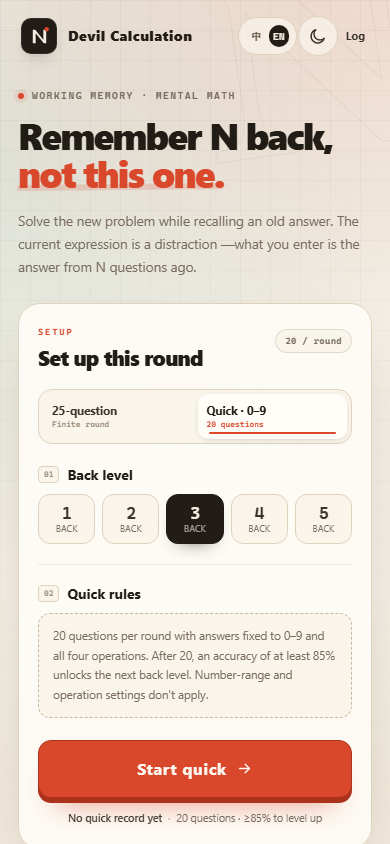
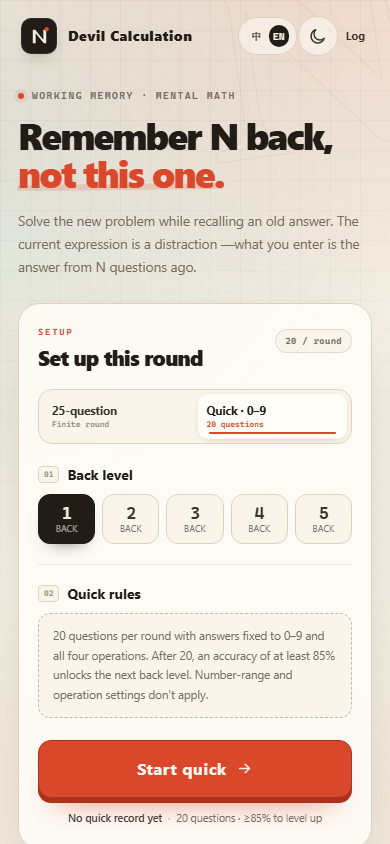
Make home layout adapt to viewport height and width
Center the home content between header and footer, pin the footer to the bottom, and expand spacing and type on wide screens. Tested at 2560x1229 with no extra scroll.

Changed region(s): [[0.4, 0.5853, 0.5846, 0.6777], [0.0923, 0.5853, 0.2462, 0.6777]]

diff --git a/dev/styles.css b/dev/styles.css
@@ -3956,3 +3956,66 @@ html[data-theme] .guide-panel .example {
 #screen-game[data-mode="endless"] .progress-block {
   display: block !important;
 }
+
+/* Home should fill the viewport height and use wide screens more fully. */
+#screen-home {
+  min-height: calc(100dvh - 66px);
+  display: grid;
+  grid-template-rows: 1fr auto;
+}
+
+#screen-home .home-intro {
+  align-self: center;
+}
+
+#screen-home .site-foot {
+  align-self: end;
+}
+
+@media (min-width: 1600px) {
+  .site-header,
+  .home {
+    width: min(1360px, calc(100% - 80px));
+  }
+
+  .home-intro {
+    grid-template-columns: minmax(0, 1.1fr) minmax(440px, 0.9fr);
+    gap: clamp(40px, 4vw, 80px);
+  }
+
+  .hero-copy {
+    max-width: 700px;
+  }
+
+  .hero-copy h1 {
+    font-size: clamp(76px, 5.6vw, 88px);
+  }
+
+  html[data-lang="en"] .hero-copy h1 {
+    font-size: clamp(66px, 5vw, 80px);
+  }
+}
+
+@media (min-width: 2000px) {
+  .site-header,
+  .home {
+    width: min(1560px, calc(100% - 96px));
+  }
+
+  .home-intro {
+    grid-template-columns: minmax(0, 1.15fr) minmax(480px, 0.85fr);
+    gap: clamp(48px, 4vw, 96px);
+  }
+
+  .hero-copy {
+    max-width: 800px;
+  }
+
+  .hero-copy h1 {
+    font-size: clamp(88px, 5.6vw, 104px);
+  }
+
+  html[data-lang="en"] .hero-copy h1 {
+    font-size: clamp(78px, 5vw, 92px);
+  }
+}

diff --git a/魔鬼计算.html b/魔鬼计算.html
@@ -3983,6 +3983,69 @@ html[data-theme] .guide-panel .example {
   display: block !important;
 }
 
+/* Home should fill the viewport height and use wide screens more fully. */
+#screen-home {
+  min-height: calc(100dvh - 66px);
+  display: grid;
+  grid-template-rows: 1fr auto;
+}
+
+#screen-home .home-intro {
+  align-self: center;
+}
+
+#screen-home .site-foot {
+  align-self: end;
+}
+
+@media (min-width: 1600px) {
+  .site-header,
+  .home {
+    width: min(1360px, calc(100% - 80px));
+  }
+
+  .home-intro {
+    grid-template-columns: minmax(0, 1.1fr) minmax(440px, 0.9fr);
+    gap: clamp(40px, 4vw, 80px);
+  }
+
+  .hero-copy {
+    max-width: 700px;
+  }
+
+  .hero-copy h1 {
+    font-size: clamp(76px, 5.6vw, 88px);
+  }
+
+  html[data-lang="en"] .hero-copy h1 {
+    font-size: clamp(66px, 5vw, 80px);
+  }
+}
+
+@media (min-width: 2000px) {
+  .site-header,
+  .home {
+    width: min(1560px, calc(100% - 96px));
+  }
+
+  .home-intro {
+    grid-template-columns: minmax(0, 1.15fr) minmax(480px, 0.85fr);
+    gap: clamp(48px, 4vw, 96px);
+  }
+
+  .hero-copy {
+    max-width: 800px;
+  }
+
+  .hero-copy h1 {
+    font-size: clamp(88px, 5.6vw, 104px);
+  }
+
+  html[data-lang="en"] .hero-copy h1 {
+    font-size: clamp(78px, 5vw, 92px);
+  }
+}
+
 </style>
 </head>
 <body data-screen="home">

diff --git a/README.md b/README.md
@@ -86,7 +86,7 @@ preview/           # 桌面 / 手机 / 暗色主题预览图
 
 ## 浏览器
 
-建议使用较新的 Chrome / Edge；支持桌面、平板和手机宽度，已在 1440 / 390 / 320px 下验证。
+建议使用较新的 Chrome / Edge；支持桌面、平板和手机宽度，已在 1440 / 390 / 320px 下验证。大窗口下首页会占满可视高度，内容垂直居中、footer 贴底；2560×1229 下无额外滚动，也不再出现底部单侧留白。
 
 ## 许可
 

diff --git a/README.en.md b/README.en.md
@@ -84,7 +84,7 @@ preview/           # desktop / mobile / dark-theme screenshots
 
 ## Browser
 
-A recent Chrome or Edge is recommended. The layout has been checked at 1440 / 390 / 320px.
+A recent Chrome or Edge is recommended. The layout has been checked at 1440 / 390 / 320px. On large windows the home screen fills the viewport, centers its content, and pins the footer to the bottom; at 2560×1229 there is no extra scroll and no one-sided gap below the content.
 
 ## License
 
